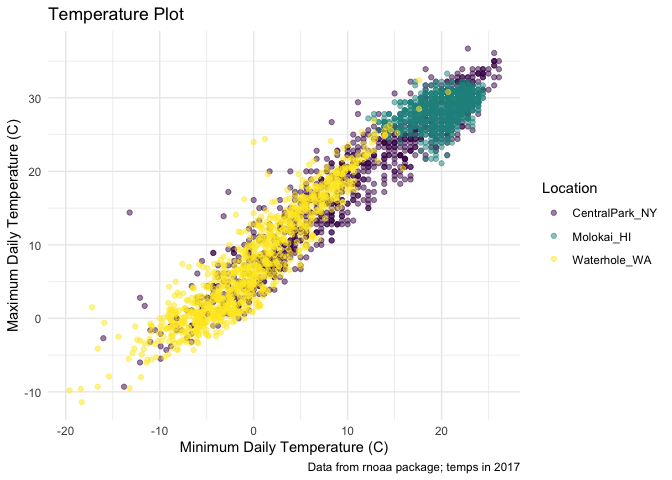
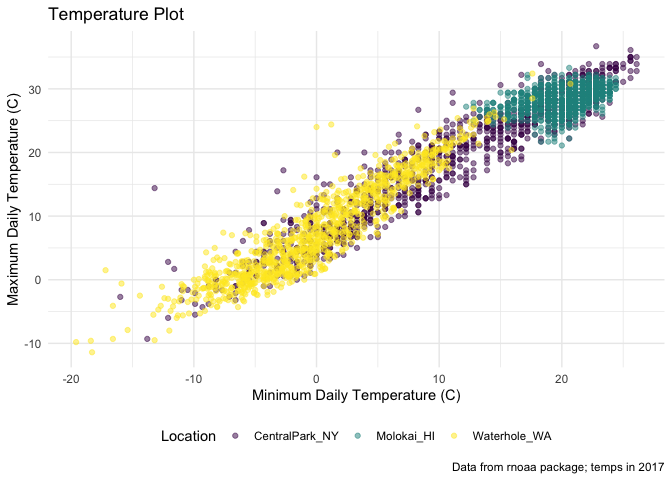
Code for setting options that ill use later

diff --git a/viz_ii.md b/viz_ii.md
@@ -163,9 +163,32 @@ weather_df %>%
  viridis::scale_color_viridis(
     name = "Location",
     discrete = TRUE) +
-  theme_minimal()
+  theme_minimal() +
+  theme(legend.position = "bottom")
 ```
 
     ## Warning: Removed 30 rows containing missing values (`geom_point()`).
 
 ![](viz_ii_files/figure-gfm/unnamed-chunk-7-1.png)<!-- -->
+
+## Setting options
+
+``` r
+library(tidyverse)
+
+knitr::opts_chunk$set(
+  fig.width = 6,
+  fig.asp = .6,
+  out.width = "90%"
+)
+
+theme_set(theme_minimal() + theme(legend.position = "bottom"))
+
+options(
+  ggplot2.continuious.color = "viridis",
+  ggplot2.continuious.fill = "viridis"
+)
+
+scale_color_discrete = scale_color_viridis_d
+scale_fill_discrete = scale_fill_viridis_d
+```
